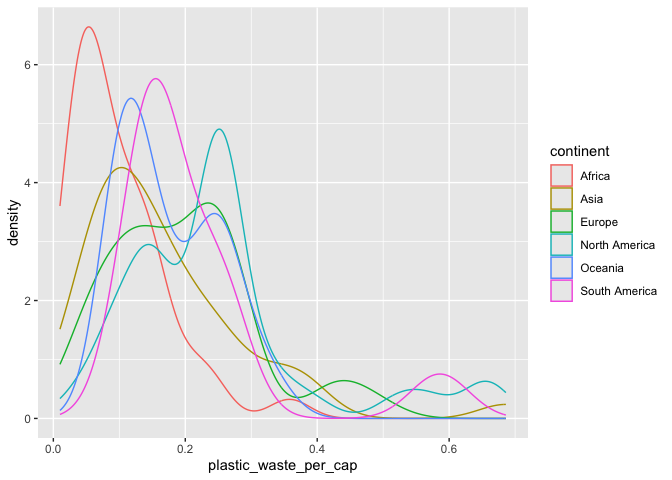
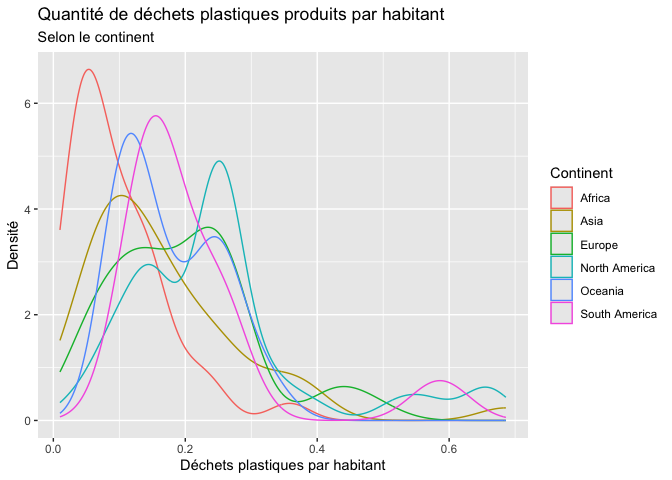
Fin du labo

diff --git a/lab-02.md b/lab-02.md
@@ -29,7 +29,8 @@ plastic_waste <- plastic_waste %>%
 ggplot(data = plastic_waste, 
        aes (x = plastic_waste_per_cap)) +
   geom_histogram(binwidth = 0.2) +
-    facet_wrap(~ continent)
+    facet_wrap(~ continent) +
+   labs(title = "Quantité de déchets plastiques produits par habitant", subtitle = "Selon le continent", x ="Déchets plastiques par habitant", y = "Quantité")
 ```
 
 ![](lab-02_files/figure-gfm/plastic-waste-continent-1.png)<!-- -->
@@ -48,7 +49,8 @@ majorité en produit 0,25 kg par jour et plusieurs en prodsuisent plus.
 ``` r
 ggplot(data = plastic_waste, 
        aes (x = plastic_waste_per_cap)) +
-  geom_density(adjust = 1) 
+  geom_density(adjust = 1) +
+  labs(title = "Quantité de déchets plastiques produits par habitant", x ="Déchets plastiques par habitant", y = "Densité")
 ```
 
 ![](lab-02_files/figure-gfm/plastic-waste-density-1.png)<!-- -->
@@ -56,7 +58,8 @@ ggplot(data = plastic_waste,
 ``` r
 ggplot(data = plastic_waste, 
        aes (x = plastic_waste_per_cap, color = continent)) +
-  geom_density(adjust = 1) 
+  geom_density(adjust = 1) +
+  labs(title = "Quantité de déchets plastiques produits par habitant", subtitle = "Selon le continent", x ="Déchets plastiques par habitant", y = "Densité", color = "Continent")
 ```
 
 ![](lab-02_files/figure-gfm/plastic-waste-density-2.png)<!-- -->
@@ -64,7 +67,8 @@ ggplot(data = plastic_waste,
 ``` r
 ggplot(data = plastic_waste, 
        aes (x = plastic_waste_per_cap, color = continent, fill = continent)) +
-  geom_density(adjust = 1) 
+  geom_density(adjust = 1) +
+  labs(title = "Quantité de déchets plastiques produits par habitant", subtitle = "Selon le continent", x ="Déchets plastiques par habitant", y = "Densité", color = "Continent", fill = "Continent")
 ```
 
 ![](lab-02_files/figure-gfm/plastic-waste-density-3.png)<!-- -->
@@ -72,7 +76,8 @@ ggplot(data = plastic_waste,
 ``` r
 ggplot(data = plastic_waste, 
        aes (x = plastic_waste_per_cap, color = continent, fill = continent)) +
-  geom_density(adjust = 1, alpha = 0.4) 
+  geom_density(adjust = 1, alpha = 0.4) +
+  labs(title = "Quantité de déchets plastiques produits par habitant", subtitle = "Selon le continent", x ="Déchets plastiques par habitant", y = "Densité", color = "Continent", fill = "Continent")
 ```
 
 ![](lab-02_files/figure-gfm/plastic-waste-density-4.png)<!-- -->
@@ -90,7 +95,8 @@ Boxplot:
 ``` r
 ggplot(data = plastic_waste, 
        aes (x = continent, y = plastic_waste_per_cap)) +
-  geom_boxplot() 
+  geom_boxplot() +
+  labs(title = "Quantité de déchets plastiques produits par habitant pour chaque continent", x ="Continent", y = "Quantité de déchets plastiques par habitant")
 ```
 
 ![](lab-02_files/figure-gfm/plastic-waste-boxplot-1.png)<!-- -->
@@ -100,7 +106,8 @@ Violin plot:
 ``` r
 ggplot(data = plastic_waste, 
        aes (x = continent, y = plastic_waste_per_cap)) +
-  geom_violin() 
+  geom_violin() +
+  labs(title = "Quantité de déchets plastiques produits par habitant pour chaque continent", x ="Continent", y = "Quantité de déchets plastiques par habitant")
 ```
 
 ![](lab-02_files/figure-gfm/plastic-waste-violin-1.png)<!-- -->
@@ -115,7 +122,8 @@ distribution.
 ``` r
 ggplot(data = plastic_waste, 
        aes (x = plastic_waste_per_cap, y = mismanaged_plastic_waste_per_cap, color = continent)) +
-  geom_point() 
+  geom_point() +
+  labs(title = "Quantité de déchets plastiques produits et non gerés par habitant ", subtitle = "Selon le continent", x ="Quantité de déchets plastiques produits par habitant", y = "Quantité de déchets plastiques non gerés par habitant", color = "Continent")
 ```
 
 ![](lab-02_files/figure-gfm/plastic-waste-mismanaged-1.png)<!-- -->
@@ -135,7 +143,8 @@ quantité de déchets plastiques non gerés augmente plus.
 ``` r
 ggplot(data = plastic_waste, 
        aes (x = total_pop, y = plastic_waste_per_cap)) +
-  geom_point() 
+  geom_point() +
+  labs(title = "Relation entre la quantité de déchets plastiques produits par habitant et le nombre total d'habitants", x ="Population totale", y = "Quantité de déchets plastiques produits par habitant")
 ```
 
     ## Warning: Removed 10 rows containing missing values or values outside the scale range
@@ -146,7 +155,8 @@ ggplot(data = plastic_waste,
 ``` r
 ggplot(data = plastic_waste, 
        aes (x = coastal_pop, y = plastic_waste_per_cap)) +
-  geom_point() 
+  geom_point() +
+  labs(title = "Relation entre la quantité de déchets plastiques produits par habitant et le nombre total d'habitants vivant près de côtes", x ="Nombre d'habitants vivant près des côtes", y = "Quantité de déchets plastiques produits par habitant")
 ```
 
 ![](lab-02_files/figure-gfm/plastic-waste-population-coastal-1.png)<!-- -->
@@ -160,5 +170,28 @@ graphiques sont très similaires.
 Recréez la visualisation:
 
 ``` r
-# insert code here
+plastic_waste_coastal <- plastic_waste %>% 
+  mutate(coastal_pop_prop = coastal_pop / total_pop) %>%
+  filter(plastic_waste_per_cap < 3)
+
+ggplot(data = plastic_waste_coastal, 
+       aes (x = coastal_pop_prop, y = plastic_waste_per_cap, color = continent)) +
+  geom_point() +
+  geom_smooth(method = "loess", color = "black") +
+  labs(title = "Quantité de déchets plastiques vs proportion de la population côtière", subtitle = "Selon le continent", x ="Proportion de la population côtière (coastal/total population)", y = "Nombre de déchets plastiques par habitant", color = "Continent")
 ```
+
+    ## `geom_smooth()` using formula = 'y ~ x'
+
+    ## Warning: Removed 10 rows containing non-finite outside the scale range
+    ## (`stat_smooth()`).
+
+    ## Warning: Removed 10 rows containing missing values or values outside the scale range
+    ## (`geom_point()`).
+
+![](lab-02_files/figure-gfm/recreate-viz-1.png)<!-- -->
+
+La relation entre le nombre de déchets plastiques par habitant et la
+propotion des habitants qui habite près des côtes n’est pas linéaire. Le
+graphique nous permet de voir la contribution de la population côtière à
+la quantité de déchets plastiques produits par tous.
